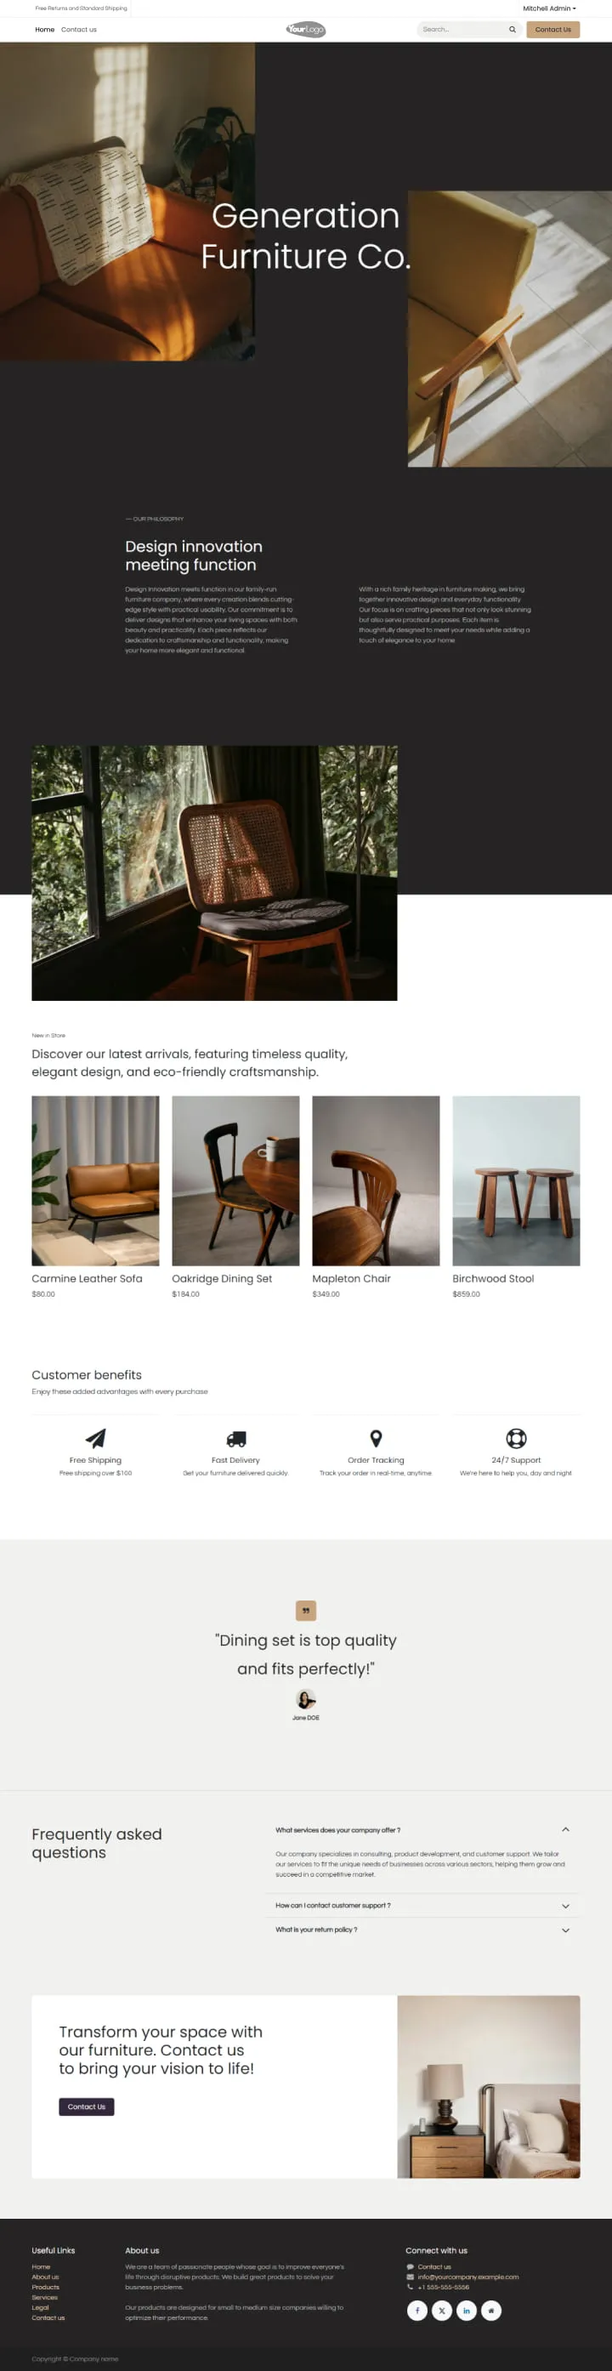
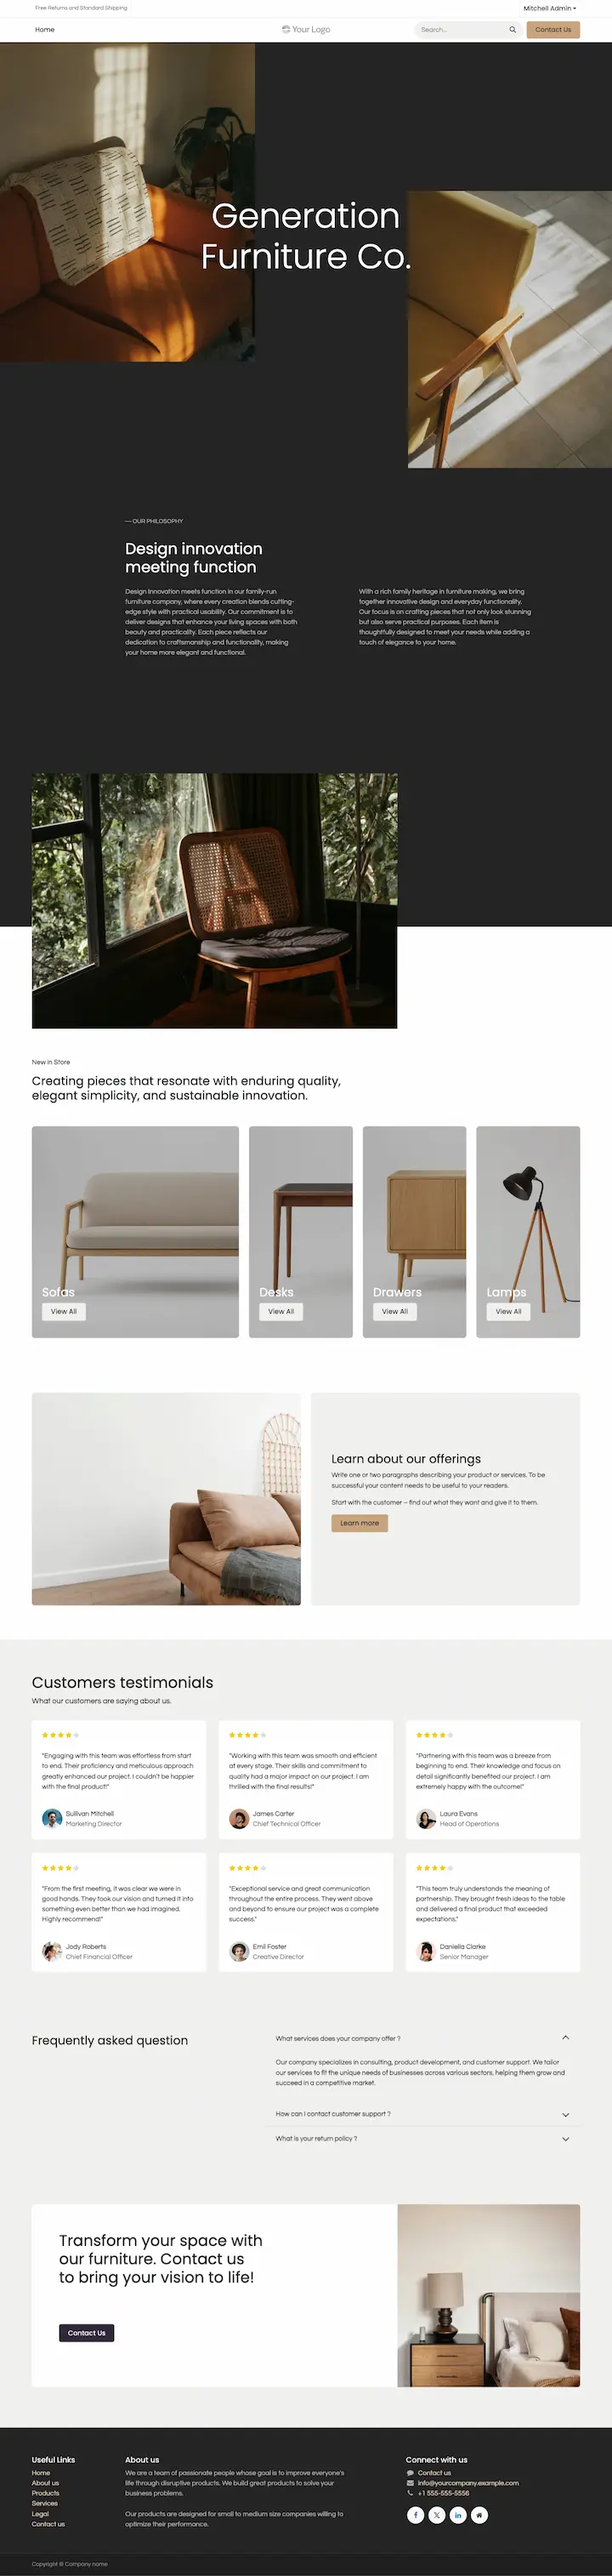
[IMP] theme_loftspace: replace wsale snippet with static one
This commit removes the `website_sale` dynamic snippet previously included
in the default snippet sequence of the theme's homepage in favor of a
static one. We also replace three snippets from the sequence for newer ones
providing a better visual result.

task-6040380

Part-of: odoo/design-themes#1236

diff --git a/theme_loftspace/__manifest__.py b/theme_loftspace/__manifest__.py
@@ -13,7 +13,6 @@
 
         'views/snippets/s_cta_box.xml',
         'views/snippets/s_attributes_horizontal.xml',
-        'views/snippets/s_attributes_vertical.xml',
         'views/snippets/s_cover.xml',
         'views/snippets/s_striped_top.xml',
         'views/snippets/s_card_offset.xml',
@@ -28,6 +27,7 @@
         'views/snippets/s_cards_grid.xml',
         'views/snippets/s_banner.xml',
         'views/snippets/s_image_text.xml',
+        'views/snippets/s_image_text_box.xml',
         'views/snippets/s_image_title.xml',
         'views/snippets/s_images_mosaic.xml',
         'views/snippets/s_numbers.xml',
@@ -83,34 +83,11 @@
         'website.library_image_13': '/theme_loftspace/static/src/img/snippets/s_images_wall_03.webp',
     },
     'configurator_snippets': {
-        'homepage': ['s_banner', 's_text_block', 's_striped', 's_key_images', 's_features', 's_quotes_carousel', 's_faq_collapse', 's_cta_box',],
+        'homepage': ['s_banner', 's_text_block', 's_striped', 's_title', 's_ecomm_categories_showcase', 's_image_text_box', 's_reviews_wall', 's_faq_collapse', 's_cta_box',],
     },
     'new_page_templates': {
         'about': {
             'personal': ['s_text_cover', 's_image_text', 's_text_block_h2', 's_numbers', 's_features', 's_call_to_action'],
-        },
-    },
-    'configurator_snippets_addons': {
-        'website_sale': {
-            'homepage': [
-                ('website_sale.s_dynamic_snippet_category_list', 'after', 's_key_images'),
-            ],
-        },
-    },
-    'theme_customizations': {
-        'website_sale.s_dynamic_snippet_category_list': {
-            'data_attributes': {
-                'gap': '4',
-                'rounded': '0',
-                'size': 'small',
-                'alignment': 'right',
-            },
-            'add_classes': [
-                'pt48', 'pb80',
-            ],
-            'remove_classes': [
-                'pt64', 'pb64',
-            ],
         },
     },
     'author': 'Odoo S.A.',
